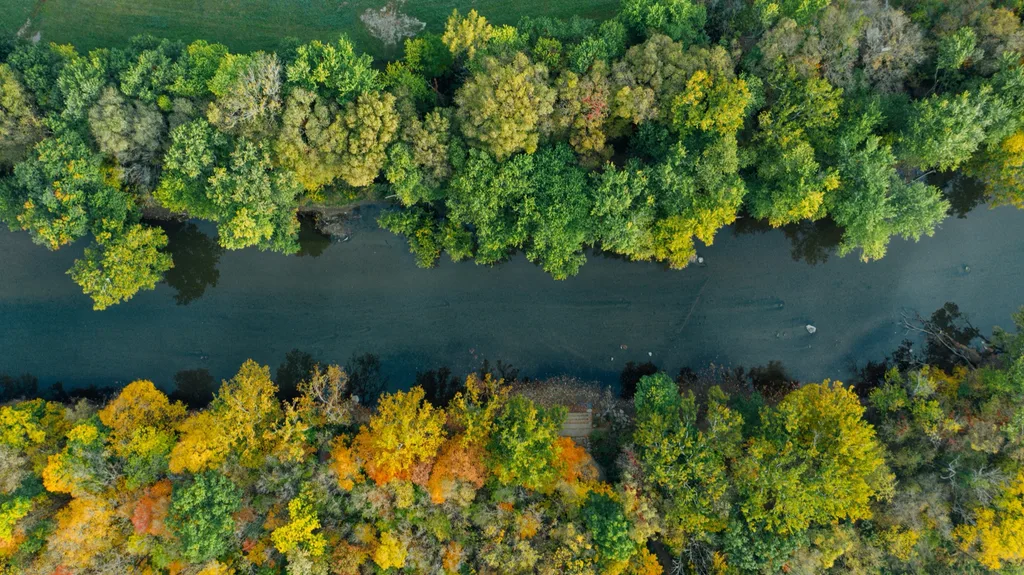
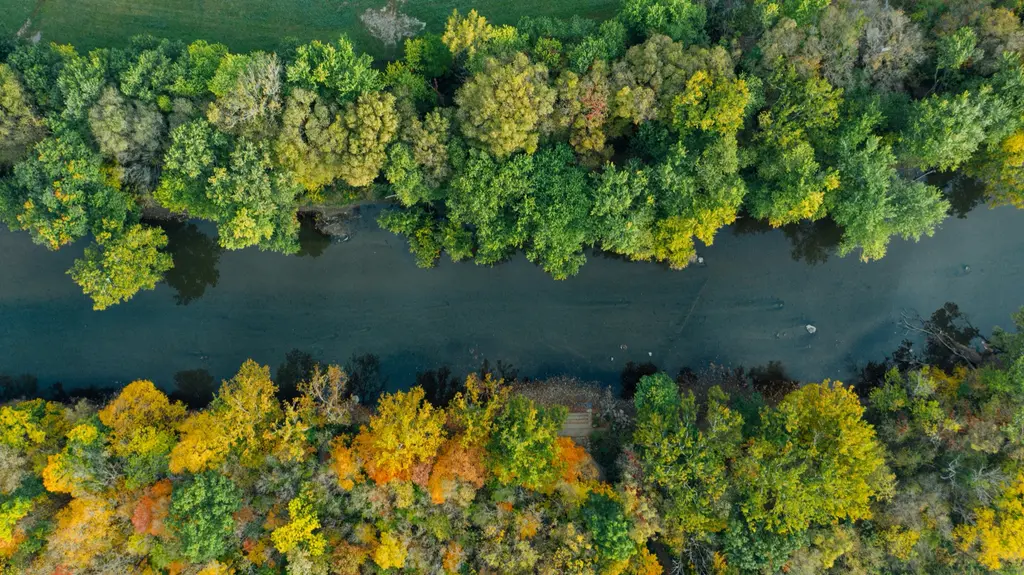
reduce images

diff --git a/src/components/VideoShowcase.vue b/src/components/VideoShowcase.vue
@@ -12,6 +12,8 @@ const LOOP_RESTART_THRESHOLD = 0.3
 const videoRefs = ref([])
 const loadedVideos = ref([])
 const pausedVideos = ref([])
+const observedVideos = ref([])
+let observer = null
 
 const setVideoRef = (index) => (el) => {
   if (el) {
@@ -22,6 +24,16 @@ const setVideoRef = (index) => (el) => {
 const playVideo = (index) => {
   const video = videoRefs.value[index]
   if (!video) return
+
+  // Load video source if not loaded yet
+  if (!observedVideos.value.includes(index)) {
+    const source = video.getAttribute('data-src')
+    if (source) {
+      video.src = source
+      video.load()
+    }
+    observedVideos.value.push(index)
+  }
 
   video.play()
     .then(() => {
@@ -92,15 +104,49 @@ const isLoaded = (index) => {
 }
 
 onMounted(() => {
-  // Initialize video playback on mount
-  videoRefs.value.forEach((video, index) => {
+  // Setup IntersectionObserver for lazy loading videos
+  observer = new IntersectionObserver(
+    (entries) => {
+      entries.forEach((entry) => {
+        if (entry.isIntersecting) {
+          const video = entry.target
+          const index = parseInt(video.getAttribute('data-index'))
+
+          // Load video source when it enters viewport
+          if (!observedVideos.value.includes(index)) {
+            const source = video.getAttribute('data-src')
+            if (source) {
+              video.src = source
+              video.load()
+            }
+            observedVideos.value.push(index)
+          }
+
+          // Unobserve after loading
+          observer.unobserve(video)
+        }
+      })
+    },
+    {
+      rootMargin: '50px', // Load slightly before entering viewport
+      threshold: 0.1
+    }
+  )
+
+  // Observe all videos
+  videoRefs.value.forEach((video) => {
     if (video) {
-      video.load()
+      observer.observe(video)
     }
   })
 })
 
 onUnmounted(() => {
+  // Cleanup IntersectionObserver
+  if (observer) {
+    observer.disconnect()
+  }
+
   // Cleanup video resources
   videoRefs.value.forEach((video) => {
     if (video) {
@@ -125,16 +171,19 @@ onUnmounted(() => {
         class="video-card lift"
       >
         <div class="video-wrapper">
-          <!-- Video element with autoplay enabled -->
+          <!-- Video element with lazy loading -->
           <video
             :ref="setVideoRef(index)"
             :id="`video-${index}`"
             :poster="video.poster"
-            :src="video.src"
-            autoplay
+            :data-src="video.src"
+            :data-index="index"
             muted
+            loop
             playsinline
-            preload="metadata"
+            preload="none"
+            loading="lazy"
+            decoding="async"
             @canplay="handleCanPlay(index)"
             @timeupdate="handleTimeUpdate(index)"
             @ended="handleVideoEnd(index)"

diff --git a/scripts/generate-webp.js b/scripts/generate-webp.js
@@ -15,6 +15,7 @@ const SIZES = [320, 480, 768, 1024, 1600]
 
 // Quality settings
 const WEBP_QUALITY = 82
+const WEBP_QUALITY_HERO = 75 // Lower quality for hero image to save bandwidth
 const JPEG_QUALITY = 80
 
 async function generateResponsiveImages() {
@@ -43,6 +44,9 @@ async function generateResponsiveImages() {
       const metadata = await sharp(inputPath).metadata()
       const originalWidth = metadata.width
 
+      // Determine quality based on image name
+      const quality = baseName.includes('hero-conservation') ? WEBP_QUALITY_HERO : WEBP_QUALITY
+
       // Generate WebP versions at different sizes
       for (const width of SIZES) {
         // Skip if target size is larger than original
@@ -57,7 +61,7 @@ async function generateResponsiveImages() {
               withoutEnlargement: true,
               fit: 'inside'
             })
-            .webp({ quality: WEBP_QUALITY })
+            .webp({ quality })
             .toFile(outputPath)
 
           console.log(`  ✓ ${width}w: ${(info.size / 1024).toFixed(1)} KB`)
@@ -71,7 +75,7 @@ async function generateResponsiveImages() {
       const fullWebPPath = join(OUTPUT_DIR, `${baseName}.webp`)
       try {
         const info = await sharp(inputPath)
-          .webp({ quality: WEBP_QUALITY })
+          .webp({ quality })
           .toFile(fullWebPPath)
 
         console.log(`  ✓ Full size WebP: ${(info.size / 1024).toFixed(1)} KB`)

diff --git a/src/style.css b/src/style.css
@@ -716,18 +716,30 @@ main {
   display: flex;
   flex-wrap: wrap;
   gap: 1.5rem;
-  align-items: center;
+  align-items: flex-start;
   justify-content: space-between;
-  min-height: 130px;
+  min-height: 150px;
   /* Prevent layout shifts with CSS containment */
-  contain: layout style;
+  contain: layout style paint;
 }
 
-/* Desktop: explicit height to prevent CLS */
+.newsletter-copy {
+  flex: 0 0 auto;
+  max-width: 100%;
+}
+
+/* Desktop: explicit height and no wrap to prevent CLS */
 @media (min-width: 768px) {
   .newsletter-bar {
     min-height: 120px;
     flex-wrap: nowrap;
+    align-items: center;
+  }
+
+  .newsletter-copy {
+    flex: 0 1 auto;
+    max-width: 45%;
+    min-width: 200px;
   }
 }
 
@@ -737,7 +749,9 @@ main {
   gap: 1rem;
   align-items: center;
   position: relative;
-  min-height: 48px;
+  min-height: 52px;
+  flex: 1 1 auto;
+  max-width: 100%;
 }
 
 .newsletter-inline input {
@@ -745,8 +759,22 @@ main {
   border-radius: 999px;
   border: 1px solid rgba(32, 146, 110, 0.2);
   font-size: 1rem;
-  min-width: 220px;
-  flex: 1;
+  width: 220px;
+  flex: 0 1 220px;
+  max-width: 100%;
+}
+
+@media (min-width: 768px) {
+  .newsletter-inline {
+    flex-wrap: nowrap;
+    flex: 1 1 auto;
+  }
+
+  .newsletter-inline input {
+    flex: 1 1 auto;
+    min-width: 200px;
+    max-width: 280px;
+  }
 }
 
 .success-text {

diff --git a/src/pages/Home.vue b/src/pages/Home.vue
@@ -107,25 +107,25 @@ const showcaseVideos = [
     title: 'Tree Planting',
     description: 'Indigenous species planted with community-led monitoring to restore forests and improve air quality.',
     src: mediaLibrary.videoTreePlanting,
-    poster: mediaLibrary.homeFocusTree
+    poster: '/images/tree-planting-768w.webp'
   },
   {
     title: 'Climate Action',
     description: 'Hands-on climate literacy programs that turn scientific knowledge into tangible community action.',
     src: mediaLibrary.videoClimateAction,
-    poster: mediaLibrary.homeFocusClimate
+    poster: '/images/climate-lab-768w.webp'
   },
   {
     title: 'Plastic Reduction',
     description: 'Circular waste systems that eliminate plastic pollution and protect our oceans and coastlines.',
     src: mediaLibrary.videoPlasticReduction,
-    poster: mediaLibrary.homeFocusPlastic
+    poster: '/images/plastic-action-768w.webp'
   },
   {
     title: 'Wildlife Protection',
     description: 'Community guardianships that reconnect habitats and safeguard biodiversity for future generations.',
     src: mediaLibrary.videoWildlifeProtection,
-    poster: mediaLibrary.homeFocusWildlife
+    poster: '/images/wildlife-guardian-768w.webp'
   }
 ]
 

diff --git a/index.html b/index.html
@@ -21,6 +21,7 @@
     <link rel="preload" as="image" href="/images/hero-conservation-1024w.webp" type="image/webp" fetchpriority="high" media="(max-width: 1023px)">
     <link rel="preload" as="image" href="/images/hero-conservation-1600w.webp" type="image/webp" fetchpriority="high" media="(min-width: 1024px)">
     <link rel="preload" as="font" type="font/woff2" href="https://fonts.gstatic.com/s/spacegrotesk/v22/V8mDoQDjQSkFtoMM3T6r8E7mF71Q-gOoraIAEj62UUsjNsFjTDJK.woff2" crossorigin="anonymous">
+    <!-- Note: Vite automatically adds CSS preload via modulepreload during build -->
 
     <!-- Performance: Load Google Font with optimal strategy -->
     <link rel="preload" as="style" href="https://fonts.googleapis.com/css2?family=Space+Grotesk:wght@400;500;600;700&display=swap">
